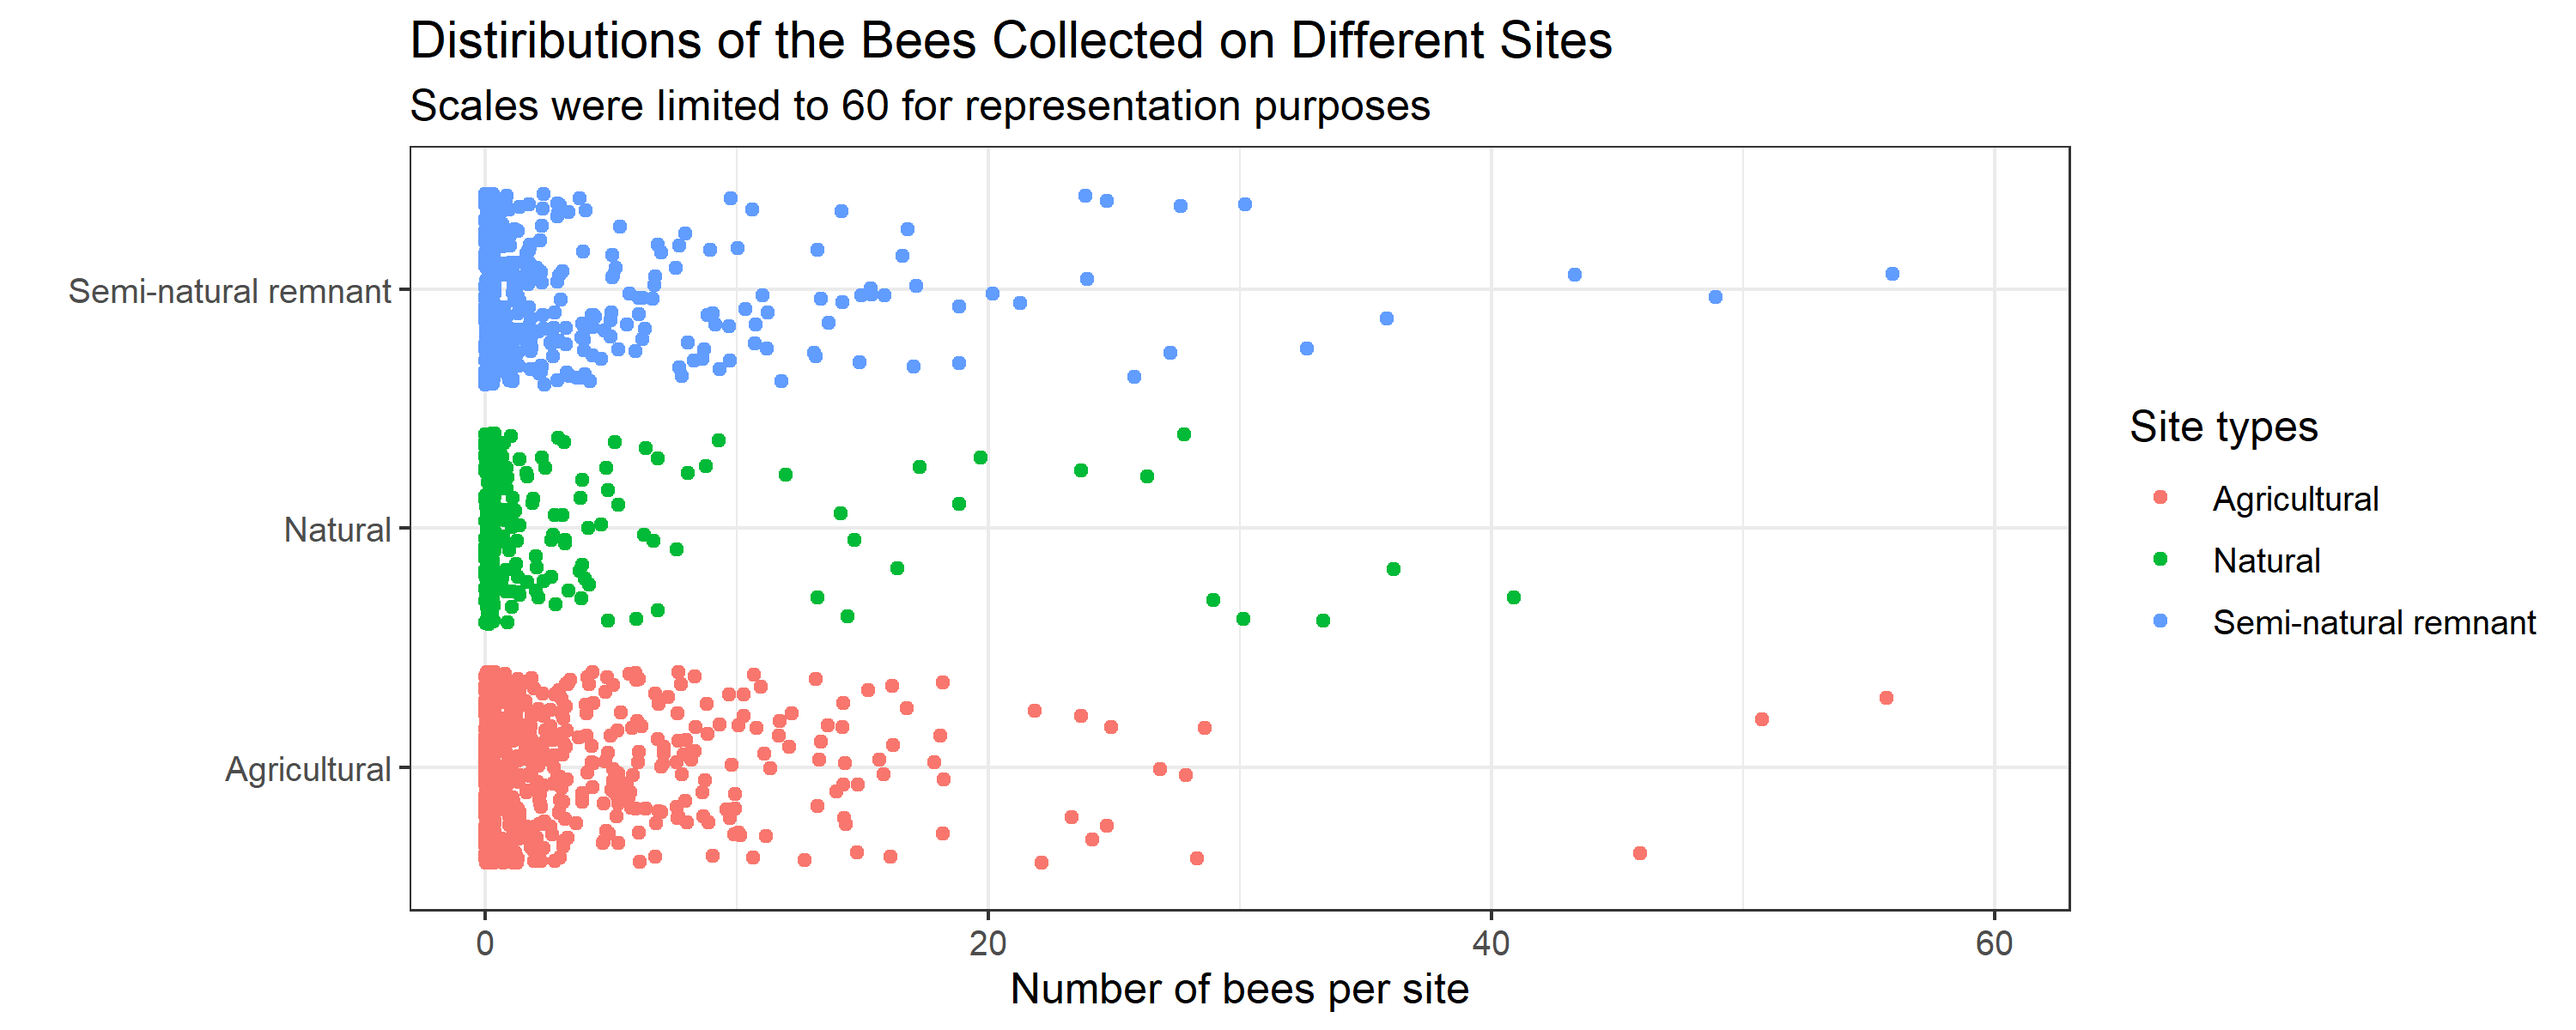
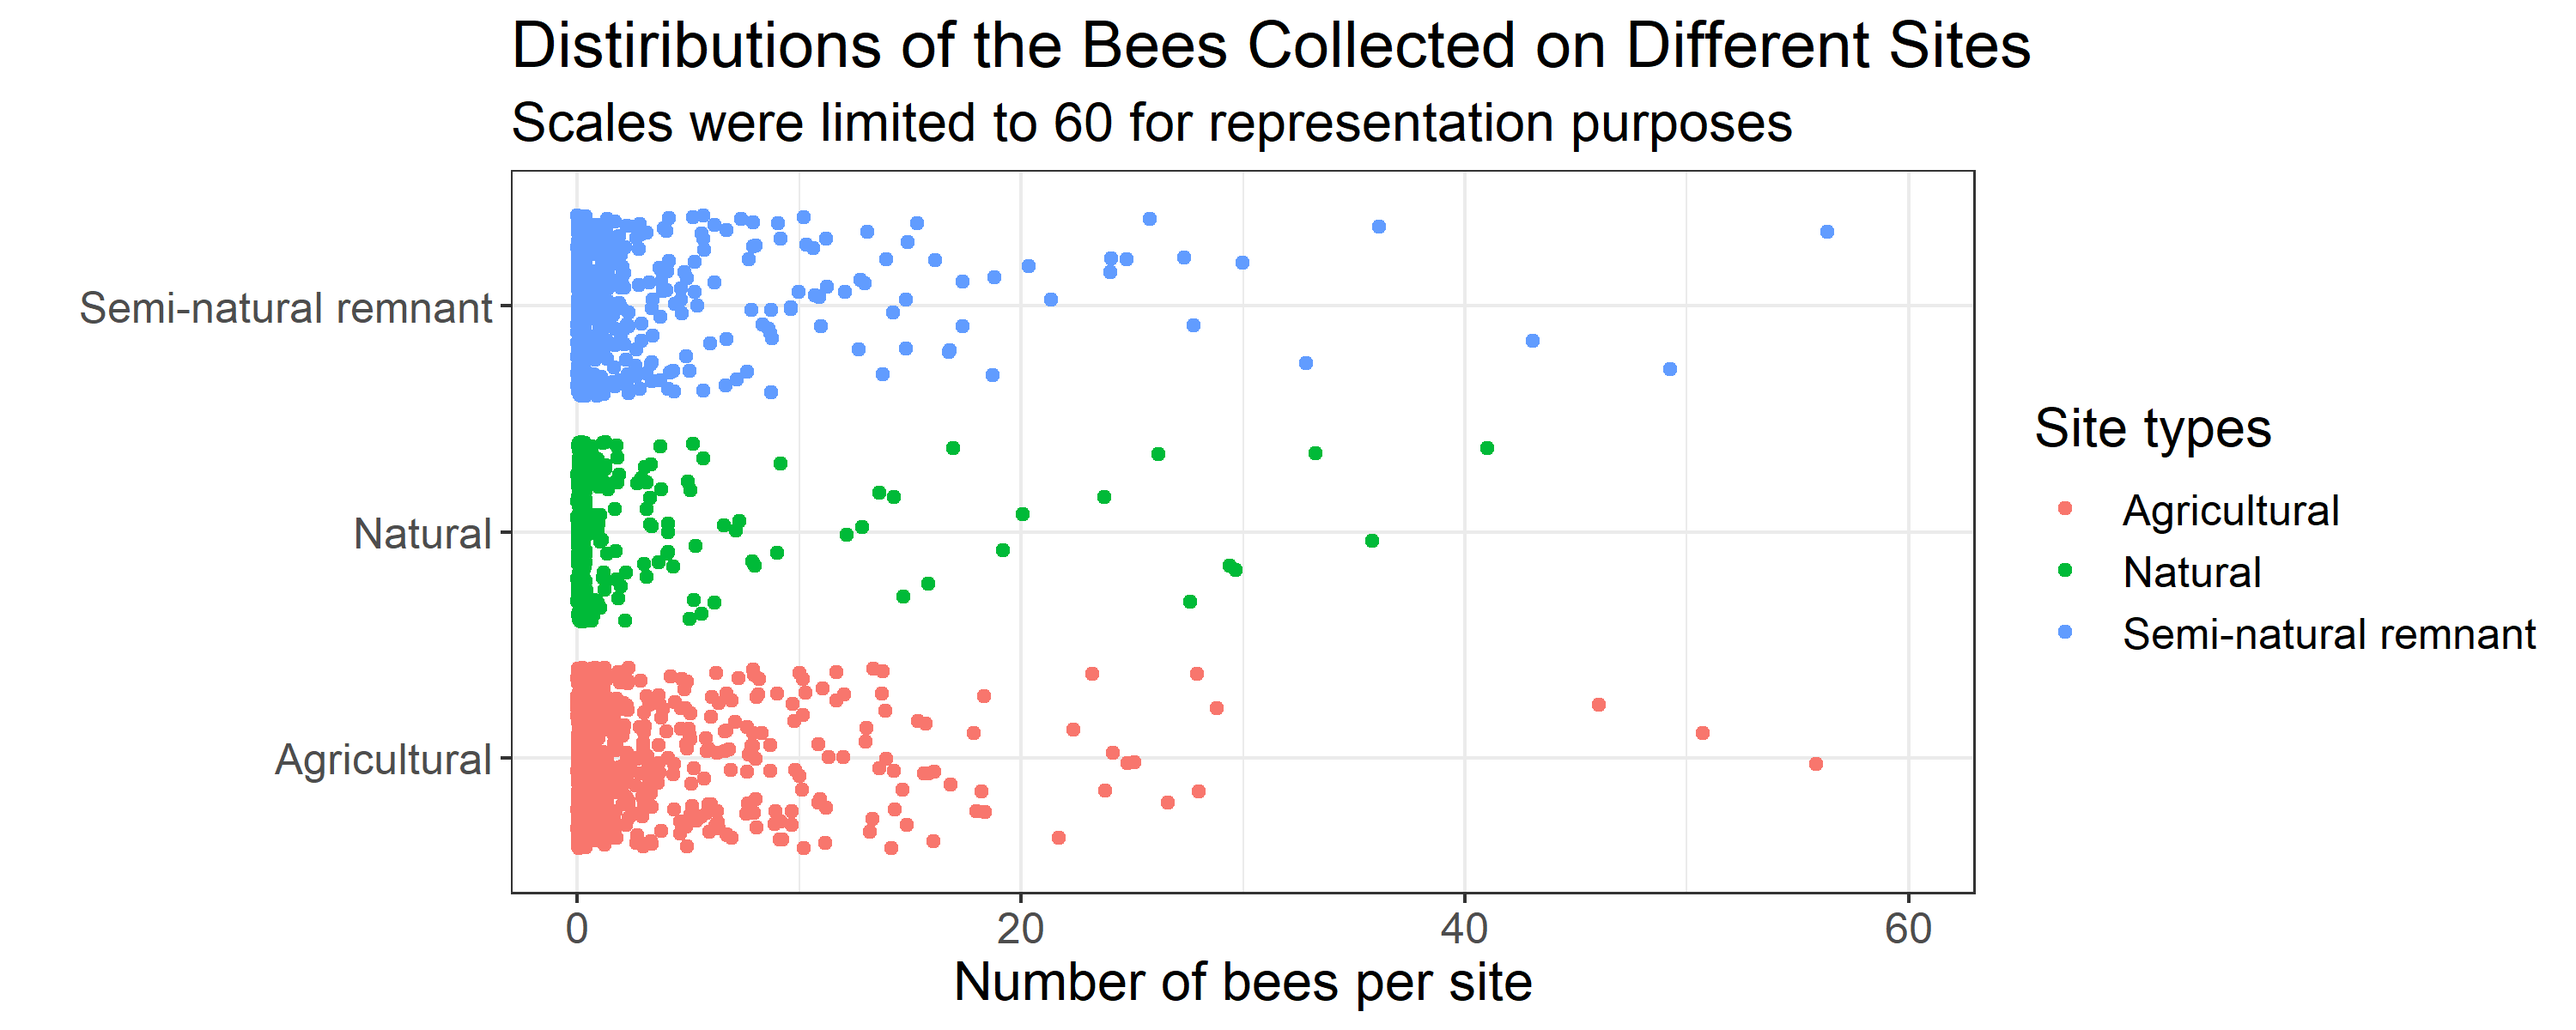
resized the figures in EDA

diff --git a/src/eda_bee.md b/src/eda_bee.md
@@ -46,7 +46,7 @@ The table below shows the number of each site where bumble bees were sampled.
 
 The following histogram shows the distributions of the bumble bee collected from different types of site. The distributions are highly right-skewed. The x axis of the following histogram was limited to 60 to show the shape of the distribution.
 
-<img src="bee_df_hist.png" width="600">
+<img src="bee_df_hist.png" width="400">
 
 **Figure 2**. The distribution of bee counts at each site type
 
